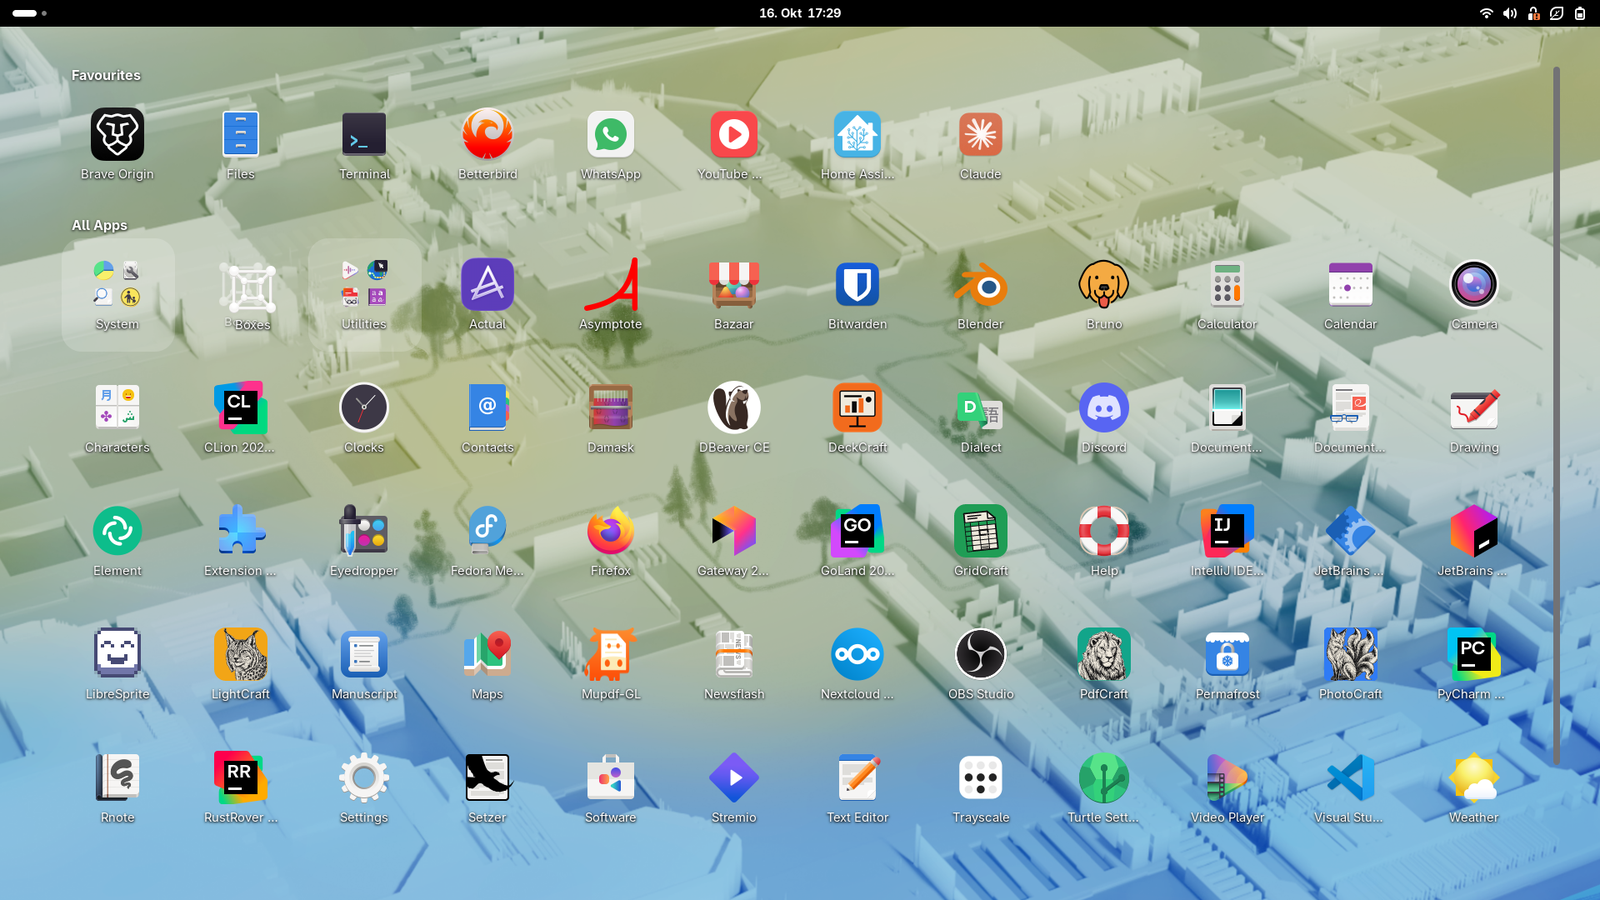
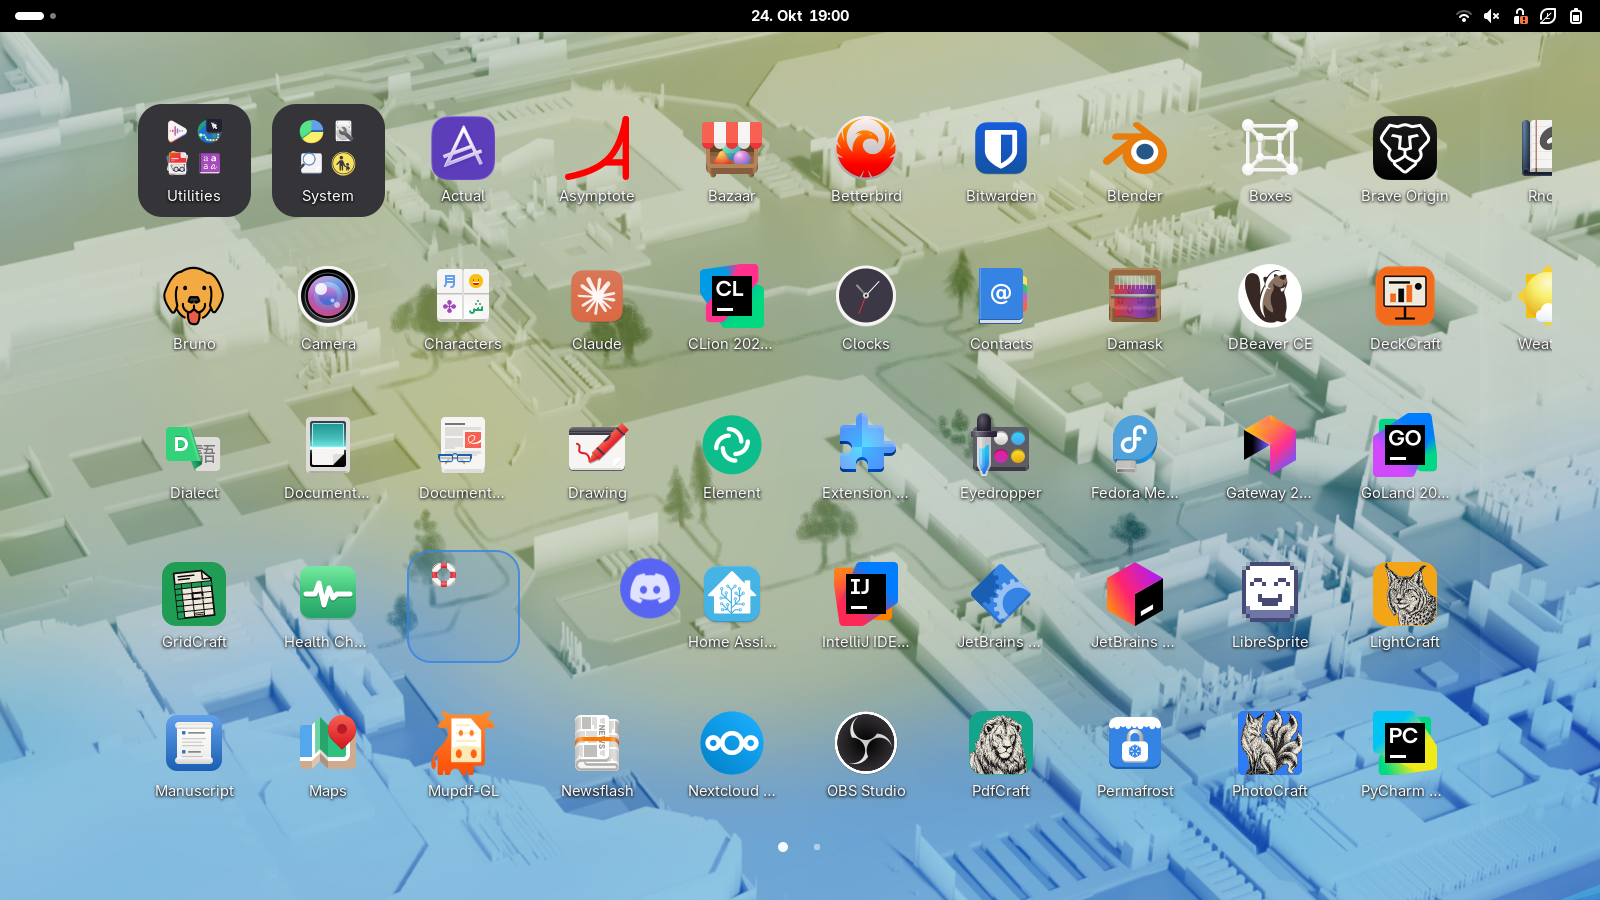
README, screenshots and settings for the native app grid
- README describes GNOME's own app grid on the desktop, its own saved
  layout (app-layout), and drops the old tile and reordering sections.
- New screenshots from a test session: the grid, GNOME's folder dialog,
  the app menu, a drag making a folder, and type-to-search (replacing
  the windows shot, as the icons now fade out behind open windows).
- Remove the "Show app names" setting, which the native grid ignores.

diff --git a/desktop-launcher@oezcan.me/prefs.js b/desktop-launcher@oezcan.me/prefs.js
@@ -29,10 +29,6 @@ export default class DesktopLauncherPreferences extends ExtensionPreferences {
             lower: 32, upper: 160, step: 8,
         }));
 
-        look.add(this._switchRow(settings, 'show-labels', {
-            title: _('Show app names'),
-        }));
-
         // --- Content --------------------------------------------------------
         const content = new Adw.PreferencesGroup({title: _('Content')});
         page.add(content);

diff --git a/README.md b/README.md
@@ -6,7 +6,7 @@
 
 **Your empty desktop is the app launcher.**
 
-A GNOME Shell extension that draws your apps on the wallpaper, behind every window, like a phone home screen. Click to launch, right-click for GNOME's app menu, open folders, drag to reorder. The overview, the dash and Alt+Tab stay exactly as they are.
+A GNOME Shell extension that puts GNOME's own app grid on the wallpaper, behind every window, like a phone home screen. Click to launch, right-click for GNOME's app menu, open folders, drag to reorder, type to search. The overview, the dash and Alt+Tab stay exactly as they are.
 
 [![Latest release](https://img.shields.io/github/v/release/atayoez/desktop-launcher?label=release&color=3b7dd8)](https://github.com/atayoez/desktop-launcher/releases/latest)
 ![GNOME 48–51](https://img.shields.io/badge/GNOME-48%20%E2%80%93%2051-4a86cf?logo=gnome&logoColor=white)
@@ -15,7 +15,7 @@ A GNOME Shell extension that draws your apps on the wallpaper, behind every wind
 [![License: GPL-2.0-or-later](https://img.shields.io/badge/license-GPL--2.0--or--later-blue)](LICENSE)
 [![Donate with PayPal](https://img.shields.io/badge/Donate-PayPal-00457C?logo=paypal&logoColor=white)](https://paypal.me/atayozc)
 
-<img src="docs/screenshots/desktop.png" width="800" alt="A GNOME desktop whose wallpaper carries a grid of app icons and two folders">
+<img src="docs/screenshots/desktop.png" width="800" alt="A GNOME desktop whose wallpaper carries a full page of app icons, with the Utilities and System folders first and a page arrow on the right">
 
 </div>
 
@@ -24,34 +24,35 @@ A GNOME Shell extension that draws your apps on the wallpaper, behind every wind
 | | |
 |---|---|
 | **Lives on the wallpaper** | The grid sits between the wallpaper and your windows. Wherever there is no window, there is your launcher; windows simply cover it. Nothing changes in the overview. |
+| **GNOME's own app grid** | It is the overview's "Show Apps" grid itself, sized for the desktop: icons at your chosen size and as many per page as fit the screen. Pages, page arrows and dots, folders, drag and drop and keyboard paging all behave exactly like GNOME's. |
 | **Click, right-click, long-press** | Click launches or focuses an app, middle-click or Ctrl-click opens a new window. Right-click or long-press opens GNOME's own app menu: open windows, New Window, desktop actions, Pin to Dash, App Details, Quit. |
 | **Folders** | Your GNOME app folders show up as folder tiles. Click one and it opens in GNOME's own folder dialog, exactly as in the overview; click outside, press Escape or launch something to close it. Folders work like in GNOME's app grid: drop an app on another app to make a folder, or on a folder to put it in; rearrange apps inside an open folder by dragging; drag one out of the folder to take it out. The pencil next to the folder name renames it. Folders are GNOME's own, so the overview shows the same ones. |
 | **Type to search** | Start typing on the desktop and GNOME's own search appears: apps plus every search provider (Files, Settings, Calculator, ...), exactly as in the overview. Enter opens the first result, arrows and Tab move between results, Escape closes it. There is no search button; the desktop has the keyboard whenever no window is focused or after a click on the desktop. |
 | **Blur my Shell** | With [Blur my Shell](https://extensions.gnome.org/extension/3193/blur-my-shell/) installed and its popup blur on, the desktop behind the search and behind an open folder is blurred with your Blur my Shell settings, like the overview. |
-| **Drag to reorder** | Press and hold, then drag. The grid keeps your order. |
-| **No duplicates with the dock** | Pinned and running apps are already in the dock, so they stay out of the grid and folders until unpinned or closed. |
+| **Drag to reorder** | Press and hold, then drag, across pages too. The desktop keeps its own layout, separate from the overview's smaller pages. |
+| **No duplicates with the dock** | Apps pinned to the dock stay out of the grid, as in the overview. |
 | **Replace GNOME's app grid** | Optional: the Show Apps button, in the GNOME dash or in Dash to Panel, and Super+A minimize every window with GNOME's animation to reveal the launcher. Press again and the windows come back. |
 | **Out of the way** | While a monitor shows any open (not minimised) app window on the current workspace, its icons fade out like they do when the overview opens, and can't be clicked by accident. Minimise or close the windows, or switch to an empty workspace, and they fade back in; with the app grid replacement on, the Show Apps button and Super+A do that for you. |
 | **Always there** | The launcher stays visible while you swipe between workspaces, where GNOME otherwise paints its own copies of the wallpaper. Opening the overview, by swiping up or pressing Super, fades it out smoothly. |
-| **Theme-native** | Tiles reuse the Shell's own icon and menu classes, so they follow your Shell theme, accent colour and icon theme. Running apps get a dot. |
+| **Theme-native** | Being GNOME's own grid, folder dialog and search, everything follows your Shell theme, accent colour and icon theme. Only the labels get a soft shadow for light wallpapers. |
 
 <div align="center">
 <table>
 <tr>
-<td><img src="docs/screenshots/folder.png" width="400" alt="The Utilities folder open in GNOME's folder dialog over the grid, showing its five apps"></td>
-<td><img src="docs/screenshots/menu.png" width="400" alt="GNOME's app menu opened by right-clicking a tile: New Window, Pin to Dash, App Details"></td>
+<td><img src="docs/screenshots/folder.png" width="400" alt="The Utilities folder open in GNOME's folder dialog over the dimmed grid, showing its five apps"></td>
+<td><img src="docs/screenshots/menu.png" width="400" alt="GNOME's app menu opened by right-clicking Clocks: New Window, Pin to Dash, App Details"></td>
 </tr>
 <tr>
 <td align="center"><sub>Folders</sub></td>
 <td align="center"><sub>Right-click menu</sub></td>
 </tr>
 <tr>
-<td><img src="docs/screenshots/drag.png" width="400" alt="A tile being dragged between two folders; the other tiles have moved aside"></td>
-<td><img src="docs/screenshots/windows.png" width="400" alt="Calculator and Clocks windows open on top of the launcher grid"></td>
+<td><img src="docs/screenshots/drag.png" width="400" alt="Discord being dragged onto Help, which shrinks into a folder preview"></td>
+<td><img src="docs/screenshots/search.png" width="400" alt="Typing set on the desktop shows GNOME's search: apps, Settings panels, files and characters"></td>
 </tr>
 <tr>
-<td align="center"><sub>Drag to reorder</sub></td>
-<td align="center"><sub>Behind every window</sub></td>
+<td align="center"><sub>Drag to reorder or make folders</sub></td>
+<td align="center"><sub>Type to search</sub></td>
 </tr>
 </table>
 </div>
@@ -83,30 +84,31 @@ Open with `gnome-extensions prefs desktop-launcher@oezcan.me` or from the Extens
 
 | Setting | Default | What it does |
 |---|---|---|
-| Icon size | 64 px | Size of the app icons |
-| Show app names | on | Labels under the icons |
+| Icon size | 64 px | Size of the app icons; each page holds as many as fit |
 | Replace GNOME's app grid | off | Show Apps button and Super+A reveal the desktop instead of opening the overview grid |
 | Outer margin | 48 px | Space between the grid and the edge of the work area |
 | Maximum grid width | unlimited | Cap the grid width; the grid is centred |
 | Show on every monitor | off | One launcher per monitor instead of the primary only |
 
-The drag order of the grid is stored in the `app-order` key and never needs touching by hand.
+The desktop's layout (pages and positions) is stored in the `app-layout` key, in the format of GNOME's own `app-picker-layout`, and never needs touching by hand.
 
 ## How it works
 
 The Shell keeps its wallpaper actors in a `Meta.BackgroundGroup` at the bottom of `global.window_group`. The extension adds one `LauncherLayer` per monitor to that group, sized to the monitor's work area. Being inside the window group puts the layer above the wallpaper and below all windows, and the overview, which draws its own backgrounds, never shows it. When the Shell recreates a wallpaper actor (wallpaper change, monitor hot-plug) it lands on top of the layer, so the extension listens for `child-added` on the group and moves the new wallpaper back to the bottom.
 
-Tiles are `St.Button`s around the Shell's `IconGrid.BaseIcon`; the context menu is the Shell's `AppMenu`. Folders are read from `org.gnome.desktop.app-folders` and resolved like the overview does: explicit `apps`, plus apps whose categories intersect the folder's `categories`, minus `excluded-apps`.
+**The app grid.** Each layer holds an `AppDisplay.AppDisplay`, the class behind the overview's "Show Apps" page, so icons, folders, the app menu, drag and drop, folder creation and keyboard paging are GNOME's code. The layer only adapts it to the desktop:
 
-**Workspace switch and overview.** During a workspace switch and in the overview, the Shell paints its own wallpaper copies above the window layer (`workspaceAnimation.js` and `workspace.js`), which would hide the launcher. The extension adds a live `Clutter.Clone` of the monitor's layer to each of those: into every switch-animation background group, and into each overview `Workspace` between its background and its window previews. The overview squeezes the work area into a box of a different aspect, so the clone is scaled uniformly to fit and centred; at full size this is an exact 1:1 mapping, so the swipe-up transition starts seamlessly. The clone lives beside the overview background rather than inside it, because the overview derives the workspace box from that actor's preferred size. The overview clones take their opacity from the overview's state adjustment (hidden 0 → window picker 1), which the swipe gesture and the Super key animation both drive, so the launcher fades out as the overview opens.
+- Page size: the grid normally picks one of a few fixed layouts (8×3, 6×4, ...) and grows its icons to fill it. The layer fixes the icon size (`fixed_icon_size`) and hands the grid, through its own `setGridModes`, as many columns and rows as fit the work area. Only the page arrows get room at the sides, not the overview's previews of neighbouring pages.
+- Layout: the grid's `PageManager` is swapped for one that keeps the same data in this extension's `app-layout` key, because the grid keeps every app on the page it was saved on and the overview's pages are much smaller. The grid fills its pages with the default page size before the desktop size applies; once it does, a saved layout is restored, or a fresh one is filled in order and saved.
+- Folder dialogs, which the grid puts into the overview's group (hidden outside the overview), are moved to the desktop, and closed when an app launches (the overview would hide instead).
+- A folder preview left on an icon after a drop is cleared when the drag ends (the overview's grid keeps it too, but the overview closes).
+- The grid connects to `Shell.AppSystem`, `global.settings` and the overview for good, as the overview never destroys its own; those handlers are recorded and disconnected when the extension is disabled, which happens on every screen lock.
 
-**Reordering.** Tiles are Shell DND sources and the grid is a drop target, working like the overview's `BaseAppView` and `IconGrid.getDropTarget`. The dragged tile shrinks away and leaves an empty slot. Hovering the outer 20 px of a tile (or the space after the last one) moves the slot there after 200 ms, aimed at whichever neighbour the move can push aside; hovering the middle of a tile never moves anything. The drop writes `app-order`.
-
-**Folder editing.** Clicking a folder opens it in the Shell's own `AppDisplay.AppFolderDialog` around a `FolderView`, the same objects the overview uses, so the dialog, its zoom out of the folder tile, reordering inside it, renaming, Escape and click-outside, and popping down when an app is dragged out are all GNOME's code. The launcher only hosts the dialog on the desktop instead of in the overview, hides the folder tile while it is open, accepts the dialog's app icons dropped on its grid, closes the dialog when an app launches (the overview would hide instead), and holds off rebuilding the grid while a dialog is open or one of its apps is being dragged. On the grid itself, folders are created and filled like the overview does: an app dropped on the middle of another app creates a folder (after 0.5 s of hovering the target shrinks into a folder preview); on a folder it joins it. Tiles take the rest from the overview too: the theme's `:drop` highlight for a merge target, its `app-grid-running-dot`, and the bare app icon (or a copy of the folder tile) as the drag image. Folders are written to `org.gnome.desktop.app-folders` the same way as the overview; removing an app from a categories-based folder adds it to `excluded-apps`, and a folder left with no apps and no categories is deleted.
+**Workspace switch and overview.** During a workspace switch and in the overview, the Shell paints its own wallpaper copies above the window layer (`workspaceAnimation.js` and `workspace.js`), which would hide the launcher. The extension adds a live `Clutter.Clone` of the monitor's layer to each of those: into every switch-animation background group, and into each overview `Workspace` between its background and its window previews. The overview workspace's box starts out as the work area, which the layer covers exactly, and shrinks into a preview of a different aspect, so the clone is scaled uniformly to fit and centred; at full size this is an exact 1:1 mapping, so the transition starts and ends seamlessly. The switch-animation groups are the whole monitor, so there the layer sits at its offset. The clone lives beside the overview background rather than inside it, because the overview derives the workspace box from that actor's preferred size. The overview clones take their opacity from the overview's state adjustment (hidden 0 → window picker 1), which the swipe gesture and the Super key animation both drive, so the launcher fades out as the overview opens.
 
 **Blur my Shell.** Blur my Shell has no API for other extensions. Its popup blur scans the direct children of the Shell's top-level groups (the background group is one, as a child of the window group) for actors with one of its target style classes, and blurs what is behind them with the user's popup pipeline, following their visibility, opacity and size. The search and the folder dialog carry its own marker class `bms-keyboard-surface`, which no theme styles, and are direct children of the background group above the launcher layer, so the blur lands between the launcher and them. To keep that order, the extension moves only re-created wallpaper actors to the bottom of the group instead of raising its layers to the top. This relies on Blur my Shell internals and may need updating if they change.
 
-**Replacing the app grid.** Every way into the overview's app grid is redirected to `toggleDesktop()`: `Overview.show(APP_GRID)` (which is also what Dash to Panel calls), `Overview.showApps()`, the `toggle-application-view` keybinding and the dash's Show Apps toggle. The overview state is clamped to the window picker so the swipe gesture can't reach the grid either. `toggleDesktop()` minimizes the windows of the active workspace in stacking order, or restores the ones it minimized. Everything is undone when the option or the extension is turned off.
+**Replacing the app grid.** Every way into the overview's app grid is redirected to `toggleDesktop()`: `Overview.show(APP_GRID)` (which is also what Dash to Panel calls), `Overview.showApps()`, the `toggle-application-view` keybinding and the dash's Show Apps toggle. Shifting up from the window picker, by pressing Super twice or Super+Up, shows the desktop too, and the overview state is clamped to the window picker so the swipe gesture can't reach the grid either. `toggleDesktop()` minimizes the windows of the active workspace in stacking order, or restores the ones it minimized. Everything is undone when the option or the extension is turned off.
 
 ## Develop and test
 
@@ -128,8 +130,6 @@ gdbus call --session --dest org.gnome.Shell.Screenshot --object-path /org/gnome/
 ```
 
 Top-level `await` is not allowed in Eval; return a promise instead. Real clicks can be injected with a virtual pointer created from Eval (`seat.create_virtual_device`), which is how the screenshots above were taken. `make zip` builds the release archive with `gnome-extensions pack`.
-
-Two Clutter gotchas if you touch the tiles: a right-click gesture on an `St.Button` must set `recognize_on_press`, because the button's own click gesture claims the release; and a signal handler that returns `EVENT_STOP` for a press makes Clutter cancel every gesture still deciding, so handlers that only need to know where a press landed check the pointer position instead of stopping events.
 
 ## Support
 
